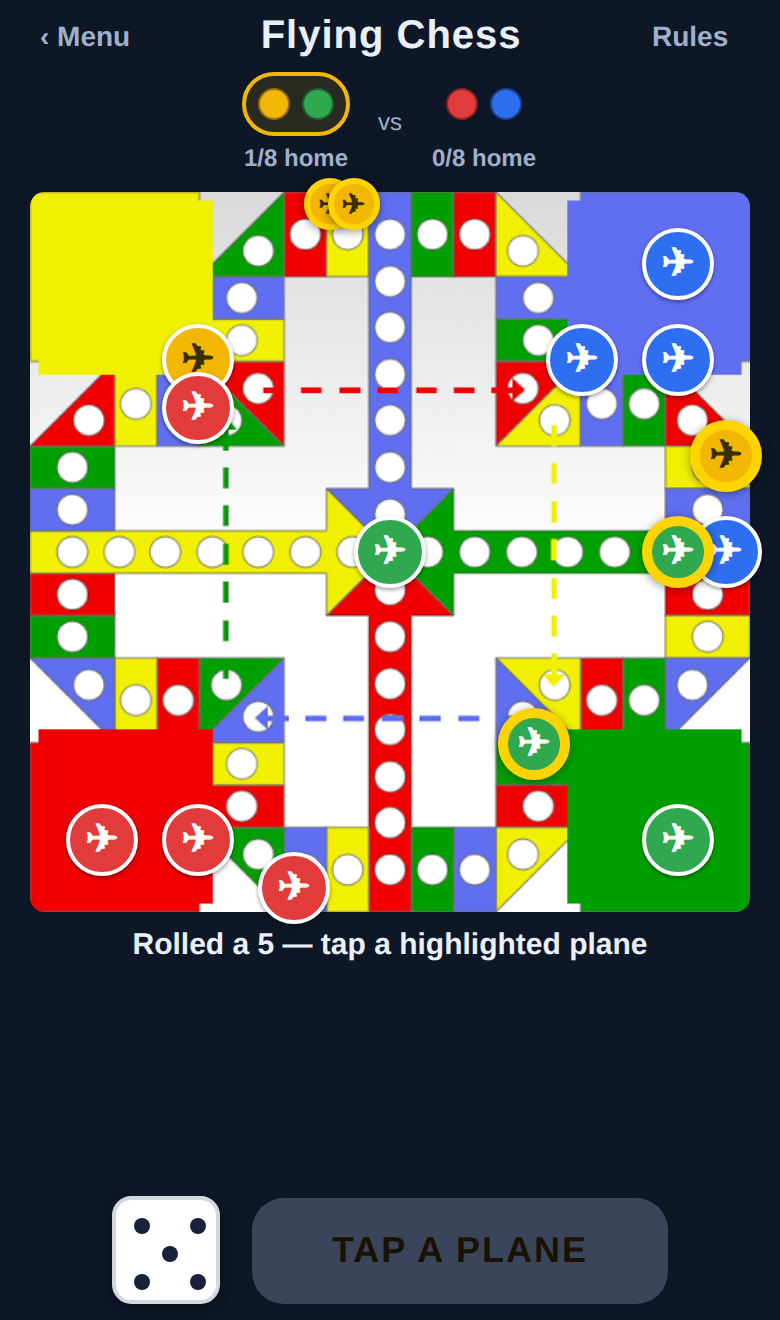
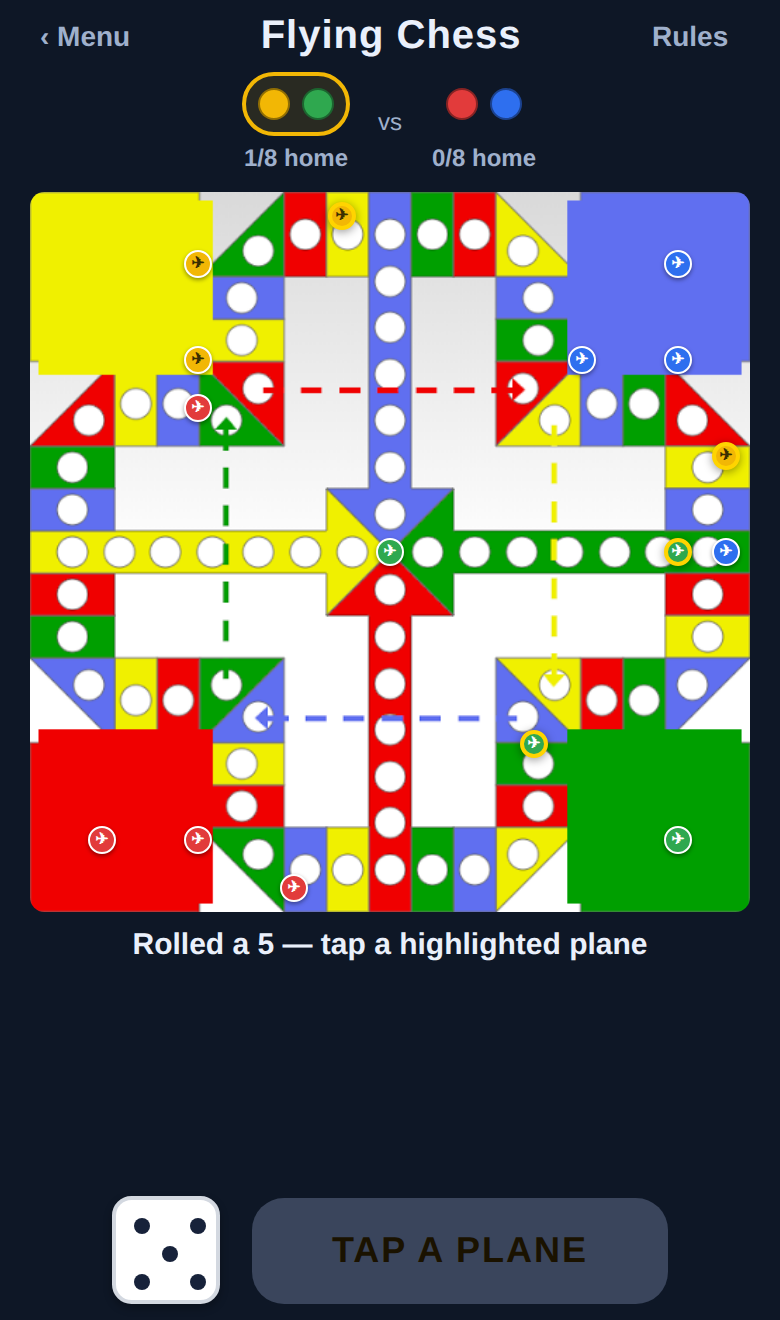
Size plane tokens to fit the board's landing circles
The white landing circles in board.png are ~0.0396 of the board width in
diameter. Size a single token's diameter to match (it was ~0.10 of the
board — about 2.5x too big), and shrink stacked tokens proportionally so a
2x2 cluster still fits around one circle. Refresh the README screenshots.

Claude-Session: https://claude.ai/code/session_01NGnshzKjWQSuV5byGm4Qo5

diff --git a/mobile/src/components/BoardView.tsx b/mobile/src/components/BoardView.tsx
@@ -25,12 +25,18 @@ export default function BoardView({ state, size, highlightIds, onSelectPlane }: 
     groups.set(key, arr);
   }
 
+  // The landing circles in board.png are ~0.0396 of the board width in diameter.
+  // Size a single token's diameter to match, so it sits just inside a circle.
+  const CIRCLE_DIAM = 0.0396 * size;
+
   const nodes: React.ReactNode[] = [];
   groups.forEach((arr) => {
     const pt: Point = planePoint(arr[0].color, arr[0].pos, arr[0].slot);
     const n = arr.length;
     const single = n === 1;
-    const token = single ? size * 0.05 : size * 0.036;
+    // `token` is the token radius. Single tokens match the circle; stacked
+    // tokens shrink so a 2x2 cluster still fits around one circle.
+    const token = single ? CIRCLE_DIAM * 0.5 : CIRCLE_DIAM * 0.4;
     const off = single
       ? [[0, 0]]
       : [
